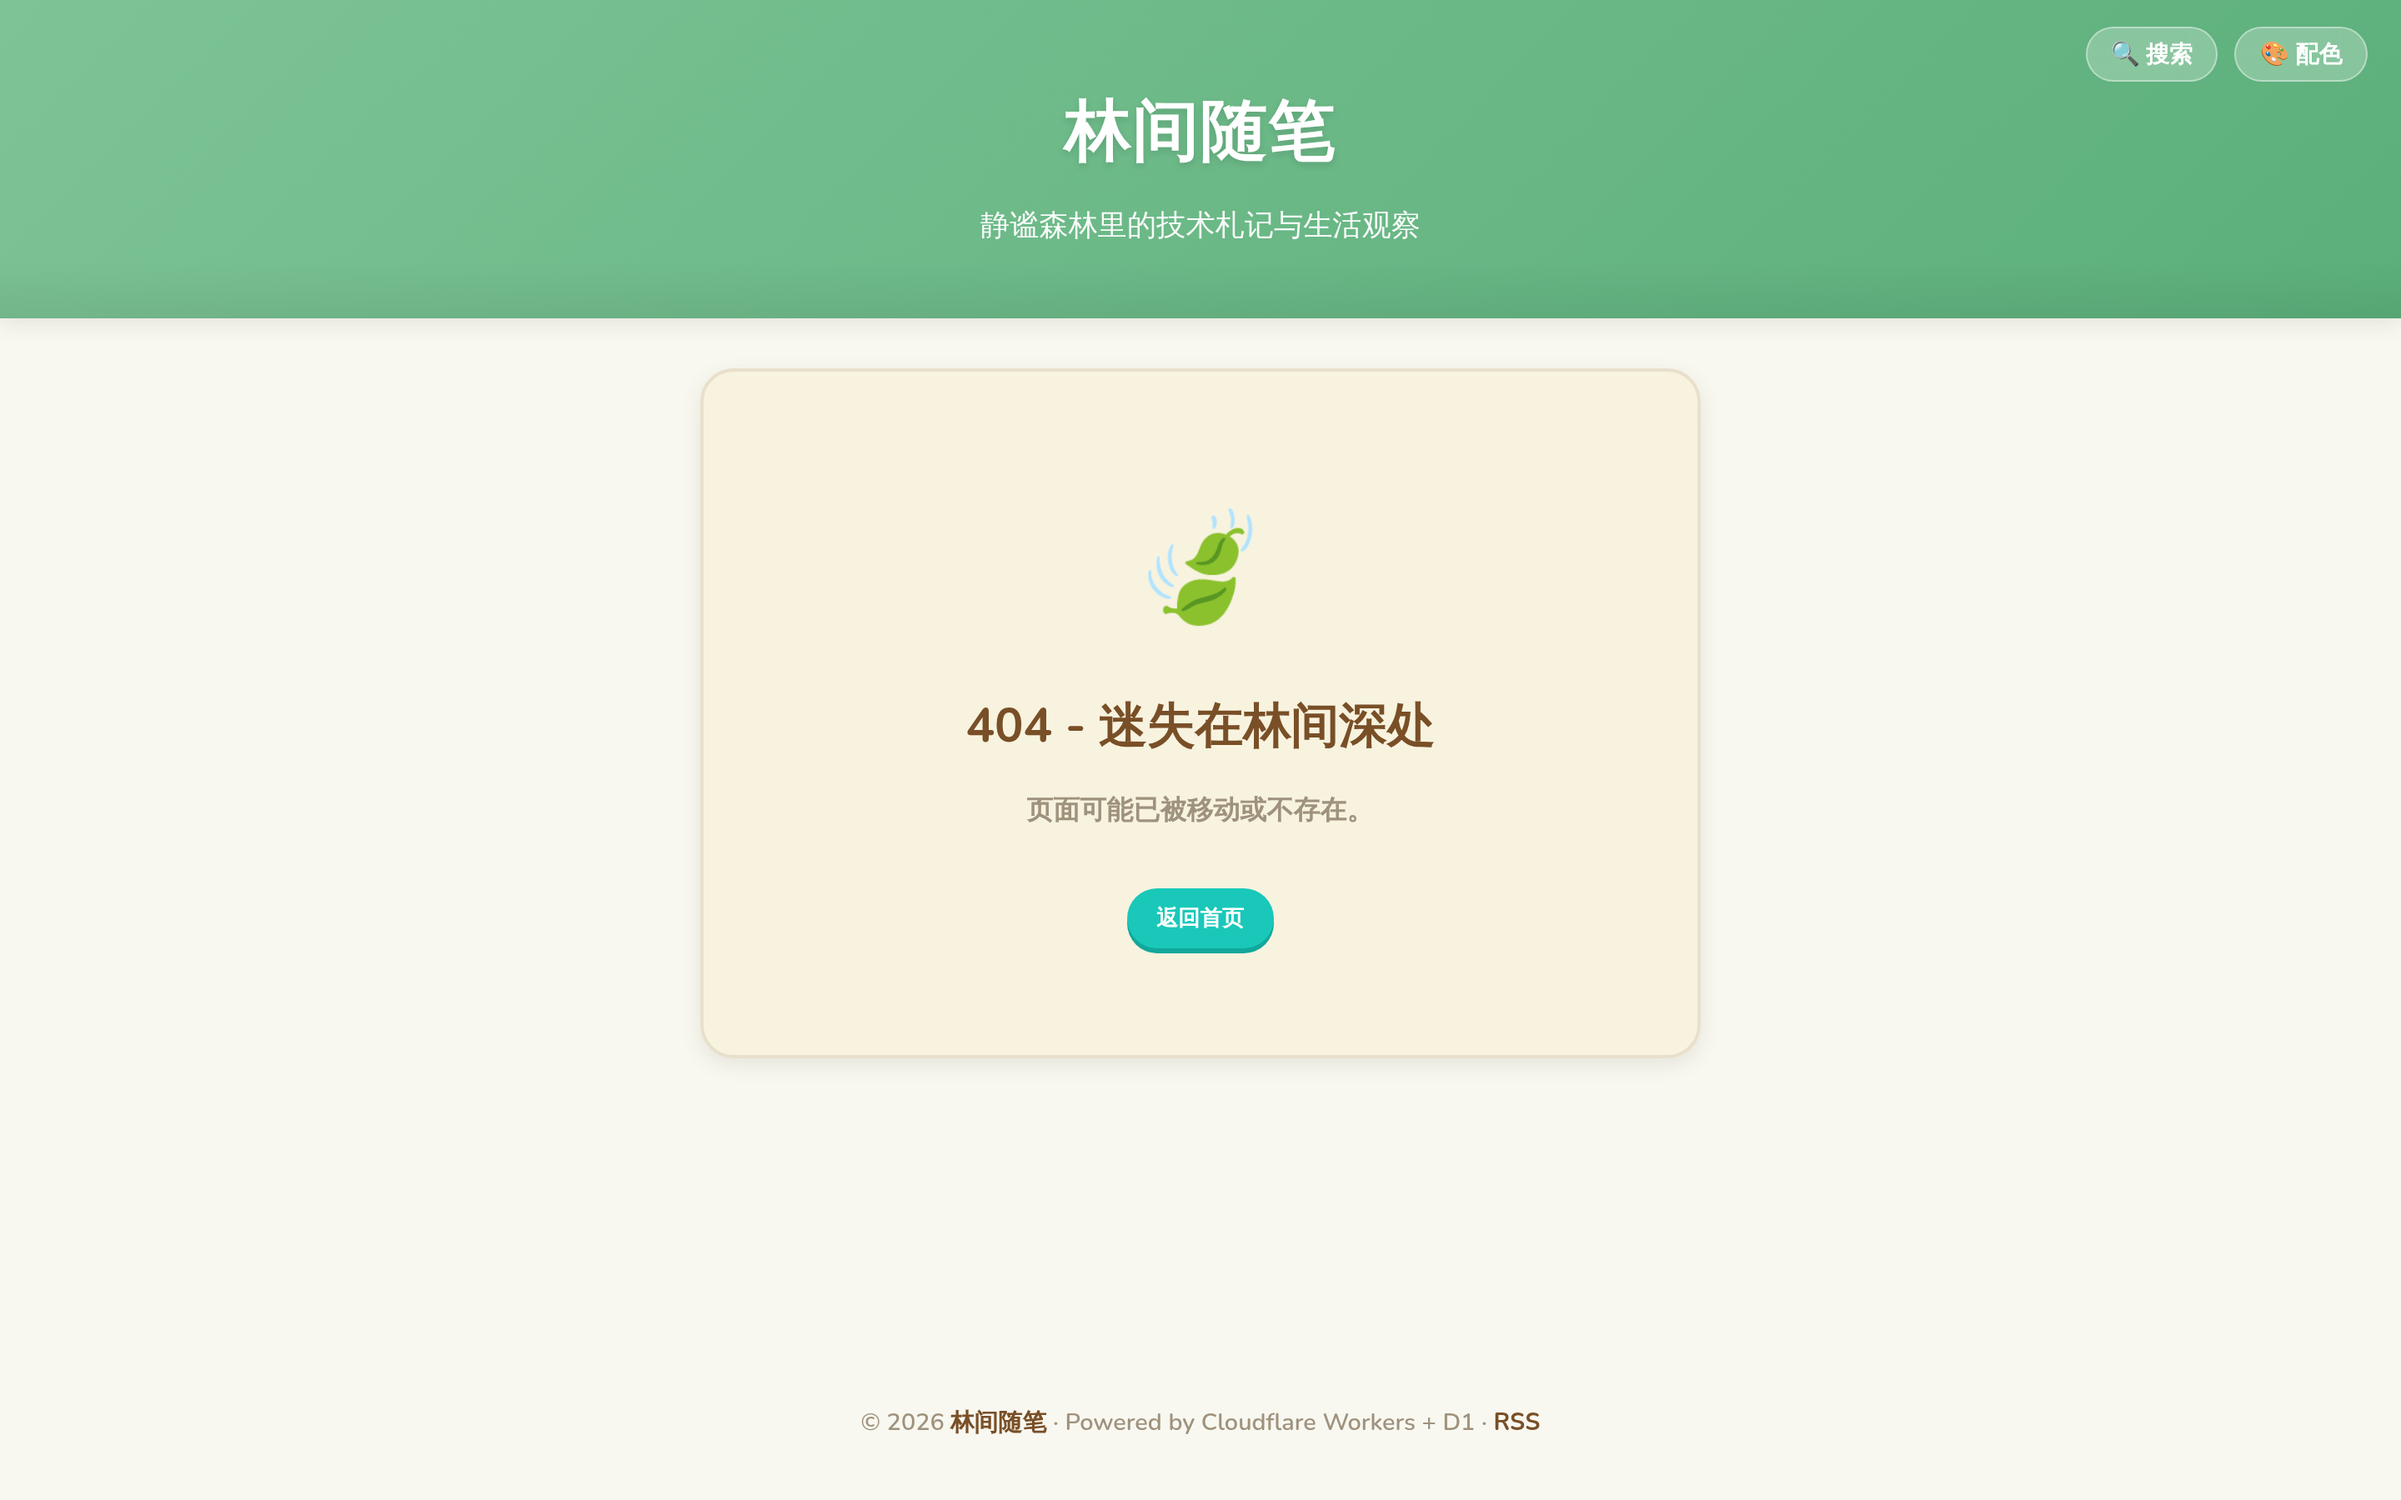
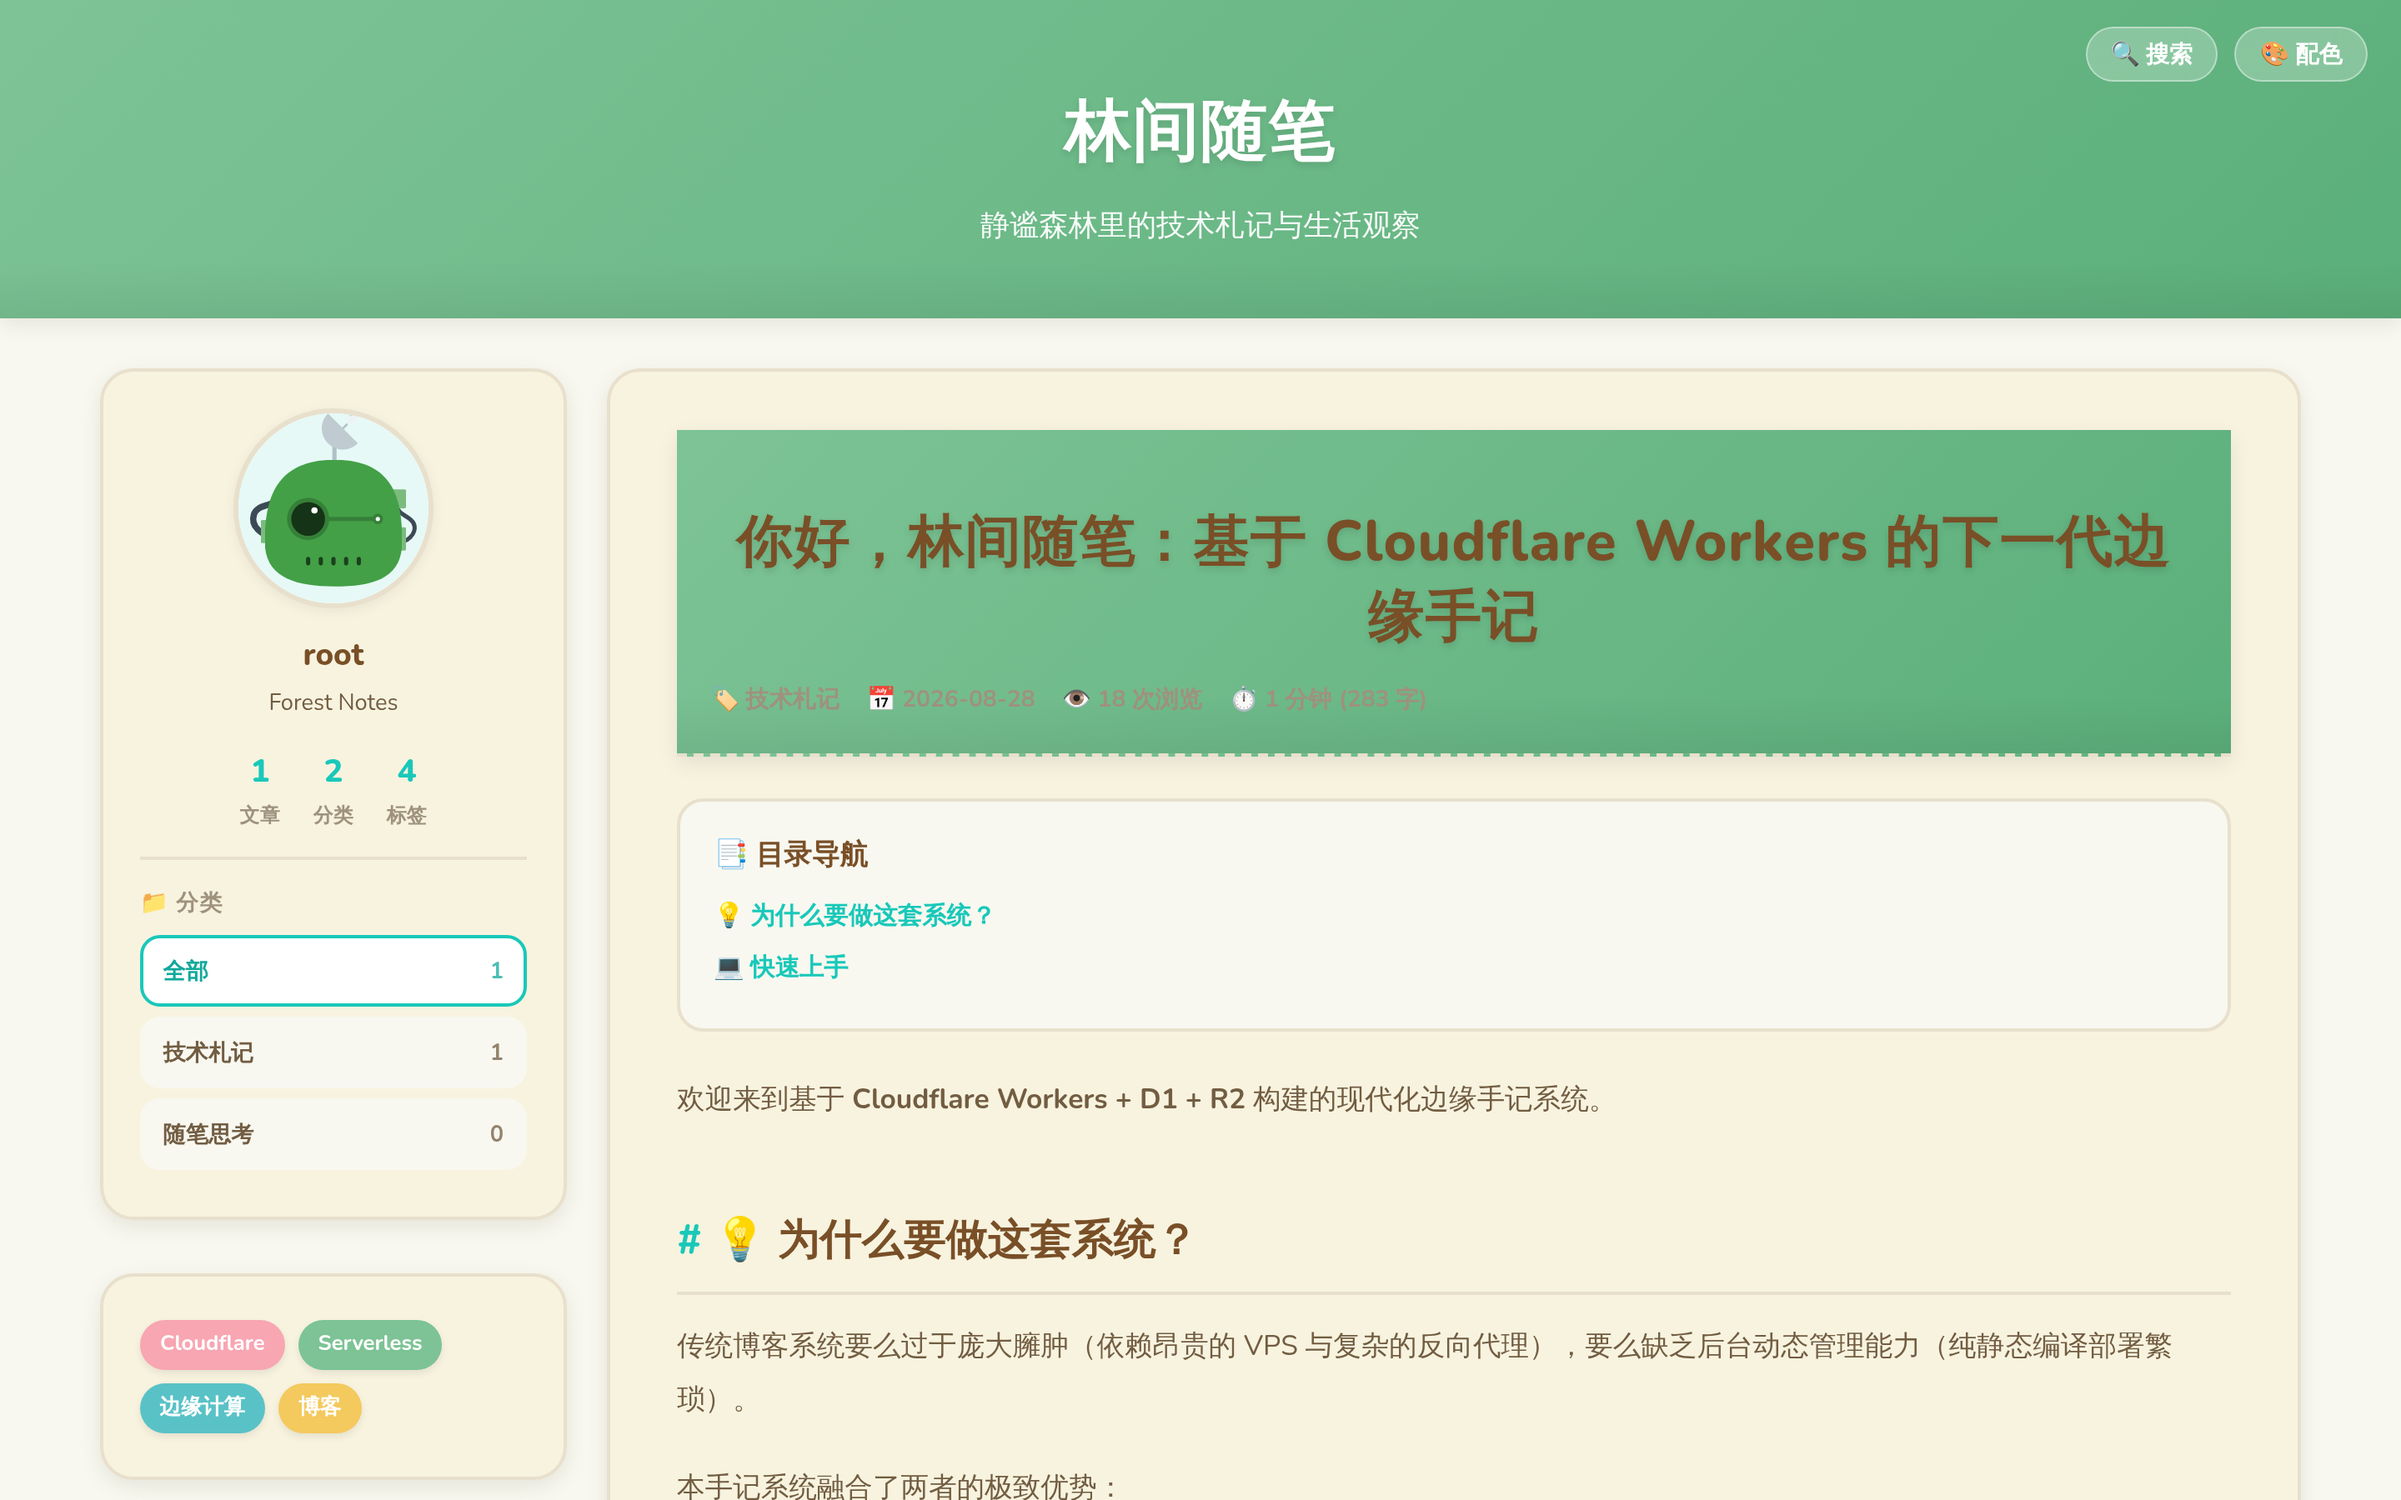
docs: update domain to note.0000996.xyz and refresh showcase screenshots

diff --git a/scripts/capture.js b/scripts/capture.js
@@ -18,7 +18,7 @@ async function run() {
 
   // 1. Home page
   console.log('Navigating to home page...');
-  await page.goto('https://forest.0000996.xyz/', { waitUntil: 'networkidle2' });
+  await page.goto('https://note.0000996.xyz/', { waitUntil: 'networkidle2' });
   await new Promise(r => setTimeout(r, 1000));
   await page.screenshot({ path: path.join(outDir, 'preview-home.png'), fullPage: false });
   console.log('Saved preview-home.png');
@@ -35,7 +35,7 @@ async function run() {
 
   // 3. Article page
   console.log('Navigating to article...');
-  await page.goto('https://forest.0000996.xyz/post/building-serverless-blog-with-cloudflare', { waitUntil: 'networkidle2' });
+  await page.goto('https://note.0000996.xyz/p/hello-forest-blog', { waitUntil: 'networkidle2' });
   await new Promise(r => setTimeout(r, 1000));
   await page.screenshot({ path: path.join(outDir, 'preview-article.png'), fullPage: false });
   console.log('Saved preview-article.png');
@@ -43,7 +43,7 @@ async function run() {
   // 4. Mobile view
   const mobilePage = await browser.newPage();
   await mobilePage.setViewport({ width: 390, height: 844, isMobile: true, hasTouch: true, deviceScaleFactor: 2 });
-  await mobilePage.goto('https://forest.0000996.xyz/', { waitUntil: 'networkidle2' });
+  await mobilePage.goto('https://note.0000996.xyz/', { waitUntil: 'networkidle2' });
   await new Promise(r => setTimeout(r, 1000));
   await mobilePage.screenshot({ path: path.join(outDir, 'preview-mobile.png'), fullPage: false });
   console.log('Saved preview-mobile.png');

diff --git a/README.md b/README.md
@@ -10,7 +10,7 @@
 
 兼具静态博客的 **零维护、零月租、全球 CDN 边缘毫秒级直出**，与动态博客的 **在线后台管理、实时发布、6套精选主题即时换肤与全文检索** 能力。
 
-🔗 **在线演示 DEMO**：[https://forest.0000996.xyz](https://forest.0000996.xyz)
+🔗 **在线演示 DEMO**：[https://note.0000996.xyz](https://note.0000996.xyz)
 
 ---
 
